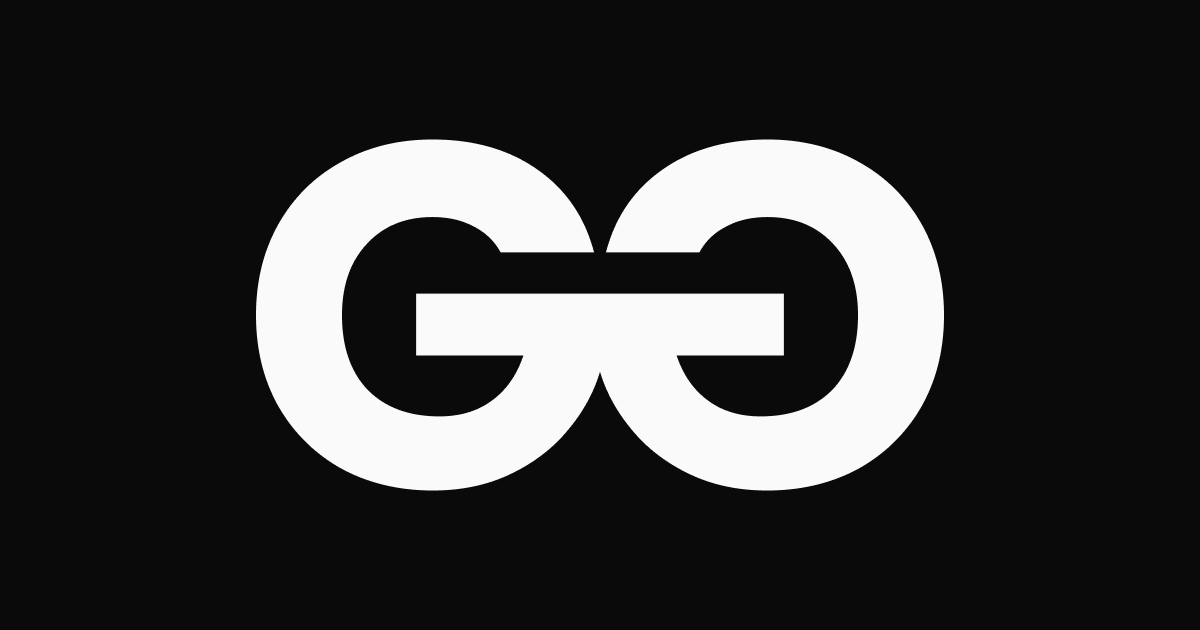
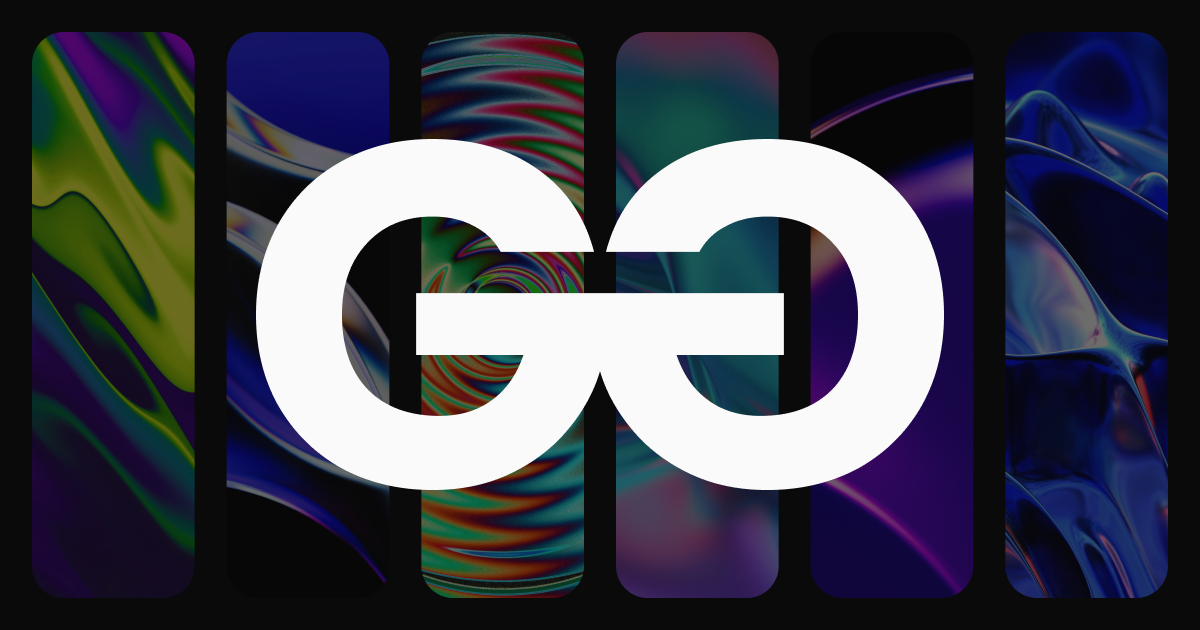
feat: brand align changes

diff --git a/src/components/page/Hero/index.tsx b/src/components/page/Hero/index.tsx
@@ -24,12 +24,14 @@ export function Hero({ image }: HeroProps) {
       <figure className="absolute top-0 left-0 w-full h-full opacity-40 overflow-hidden -z-50">
         <MotionImage
           priority
-          src={image.urls.full}
+          src={image.urls.raw}
           width={image.width}
           height={image.height}
           alt={image.alt_description ?? ''}
           className="w-full h-[calc(100%_+_300px)] object-cover object-center"
           style={{ y: yAxis, scaleX: depth, scaleY: depth }}
+          initial={{ opacity: 0 }}
+          animate={{ opacity: 1 }}
           transition={defaultTransition}
         />
       </figure>
@@ -39,7 +41,7 @@ export function Hero({ image }: HeroProps) {
       </span>
 
       <div className="container mx-auto px-4 py-8">
-        <div className="flex flex-col justify-center gap-8 md:max-w-2xl lg:max-w-3xl xl:max-w-4xl">
+        <div className="flex flex-col justify-center gap-4 md:max-w-2xl lg:max-w-3xl xl:max-w-4xl">
           <motion.h1
             className="text-4xl md:text-5xl lg:text-6xl text-balance font-light"
             initial={{ x: -50, opacity: 0 }}
@@ -47,15 +49,11 @@ export function Hero({ image }: HeroProps) {
             transition={defaultTransition}
           >
             Hi, i&apos;m a{' '}
-            <strong className="font-medium italic">Front-End Developer</strong>{' '}
-            &{' '}
-            <strong className="font-medium italic text-nowrap">
-              UI-Designer.
-            </strong>
+            <strong className="font-medium italic">Software Engineer.</strong>
           </motion.h1>
 
           <motion.p
-            className="text-base text-neutral-300"
+            className="text-base md:text-lg lg:text-xl text-neutral-300"
             initial={{ x: -50, opacity: 0 }}
             whileInView={{ x: 0, opacity: 1 }}
             transition={{ ...defaultTransition, delay: 0.2 }}

diff --git a/src/app/layout.tsx b/src/app/layout.tsx
@@ -1,10 +1,12 @@
+import { Suspense } from 'react'
 import type { Metadata } from 'next'
+
+import Loading from './loading'
+import { poppins } from './fonts'
 
 import { TriggerProvider } from '@/hooks/useTrigger'
 
 import { Navbar, Footer, LittleSunshine } from '@/components/layout'
-
-import { poppins } from './fonts'
 
 import { hourInSeconds } from '@/constants/time'
 
@@ -14,19 +16,18 @@ export const revalidate = hourInSeconds
 
 export const metadata: Metadata = {
   metadataBase: new URL('https://luisgrizzo.dev'),
-  title: 'Luís Grizzo - Front-End Developer & UI-Designer',
+  title: 'Luís Grizzo - Software Engineer',
   description:
-    "Hi, I'm Luís Grizzo a Front-End Developer & UI-Designer. Discover my github projects and get in touch through my social medias.",
+    "Hi, I'm Luís Grizzo a Software Engineer. Discover my github projects and get in touch through my social medias.",
+  themeColor: '#0a0a0a',
   openGraph: {
-    title: 'Luís Grizzo - Front-End Developer & UI-Designer',
-    description:
-      "Hi, I'm Luís Grizzo a Front-End Developer & UI-Designer. Discover my github projects and get in touch through my social medias.",
-    url: 'https://www.luisgrizzo.dev'
+    title: 'Luís Grizzo - Software Engineer',
+    description: 'Turning ideas into reality!',
+    url: new URL('https://luisgrizzo.dev')
   },
   twitter: {
-    title: 'Luís Grizzo - Front-End Developer & UI-Designer',
-    description:
-      "Hi, I'm Luís Grizzo a Front-End Developer & UI-Designer. Discover my github projects and get in touch through my social medias."
+    title: 'Luís Grizzo - Software Engineer',
+    description: 'Turning ideas into reality!'
   }
 }
 
@@ -41,7 +42,7 @@ export default function RootLayout({
         <TriggerProvider>
           <Navbar />
 
-          {children}
+          <Suspense fallback={<Loading />}>{children}</Suspense>
 
           <Footer />
 

diff --git a/src/app/page.tsx b/src/app/page.tsx
@@ -40,7 +40,7 @@ export default async function Page() {
           <figure className="lg:order-2 flex items-center justify-center w-4/5 md:w-1/2 lg:w-96 aspect-square rounded-2xl overflow-hidden">
             <Image
               src={portrait}
-              alt=""
+              alt="Photo of Luís Grizzo. He is on a hill in Ilhéus with the landscape of the Jorge Amado cable-stayed bridge in the background."
               className="w-full h-full object-cover object-center pointer-events-none"
             />
           </figure>
@@ -51,13 +51,13 @@ export default async function Page() {
             </h2>
 
             <p className="text-base text-pretty text-neutral-400">
-              Hi! I&apos;m Luís Grizzo, a Front-End Developer and UI-Designer!
-              I&apos;ve been working as a front-end developer since 2019,
-              specializing initially in React and later gaining experience with
-              Angular. My career has primarily revolved around projects in the
-              banking sector. My main interests lie in crafting modern projects
-              with sleek designs, focusing on smooth transitions and animations.
-              I particularly enjoy working on user interface development for my
+              Hi! I&apos;m Luís Grizzo, a Software Engineer! I&apos;ve been
+              working as a front-end developer since 2019, specializing
+              initially in React and later gaining experience with Angular. My
+              career has primarily revolved around projects in the banking
+              sector. My main interests lie in crafting modern projects with
+              sleek designs, focusing on smooth transitions and animations. I
+              particularly enjoy working on user interface development for my
               projects.
             </p>
 

diff --git a/src/app/loading.tsx b/src/app/loading.tsx
@@ -1,0 +1,13 @@
+import { AiOutlineLoading } from 'react-icons/ai'
+
+import { Logo } from '@/components/base'
+
+export default function Loading() {
+  return (
+    <main className="flex flex-col items-center justify-center gap-8 md:gap-8 lg:gap-16 h-[calc(100vh_-_114px_-_84px_-_1px)] container mx-auto mt-[114px] py-8 md:py-16 lg:py-32 px-4">
+      <Logo containerClassName="!h-16" />
+
+      <AiOutlineLoading size={32} className="animate-spin" />
+    </main>
+  )
+}

diff --git a/src/components/page/Footnote/index.tsx b/src/components/page/Footnote/index.tsx
@@ -13,7 +13,7 @@ export function Footnote() {
         whileInView={{ y: 0, opacity: 1 }}
         transition={defaultTransition}
       >
-        turning <strong className="font-medium line-through">ideas</strong> into{' '}
+        Turning <strong className="font-medium line-through">ideas</strong> into{' '}
         <strong className="font-medium italic">reality!</strong>
       </motion.h3>
     </div>

diff --git a/src/components/layout/LittleSunshine/index.tsx b/src/components/layout/LittleSunshine/index.tsx
@@ -34,6 +34,7 @@ export function LittleSunshine() {
             transition={defaultTransition}
           >
             <Image
+              priority
               src={littleSunshine}
               alt="Photo of my wife Verônica and my newborn son, Caetano."
               className="object-cover object-center w-48 md:w-60 lg:w-72 aspect-square"
